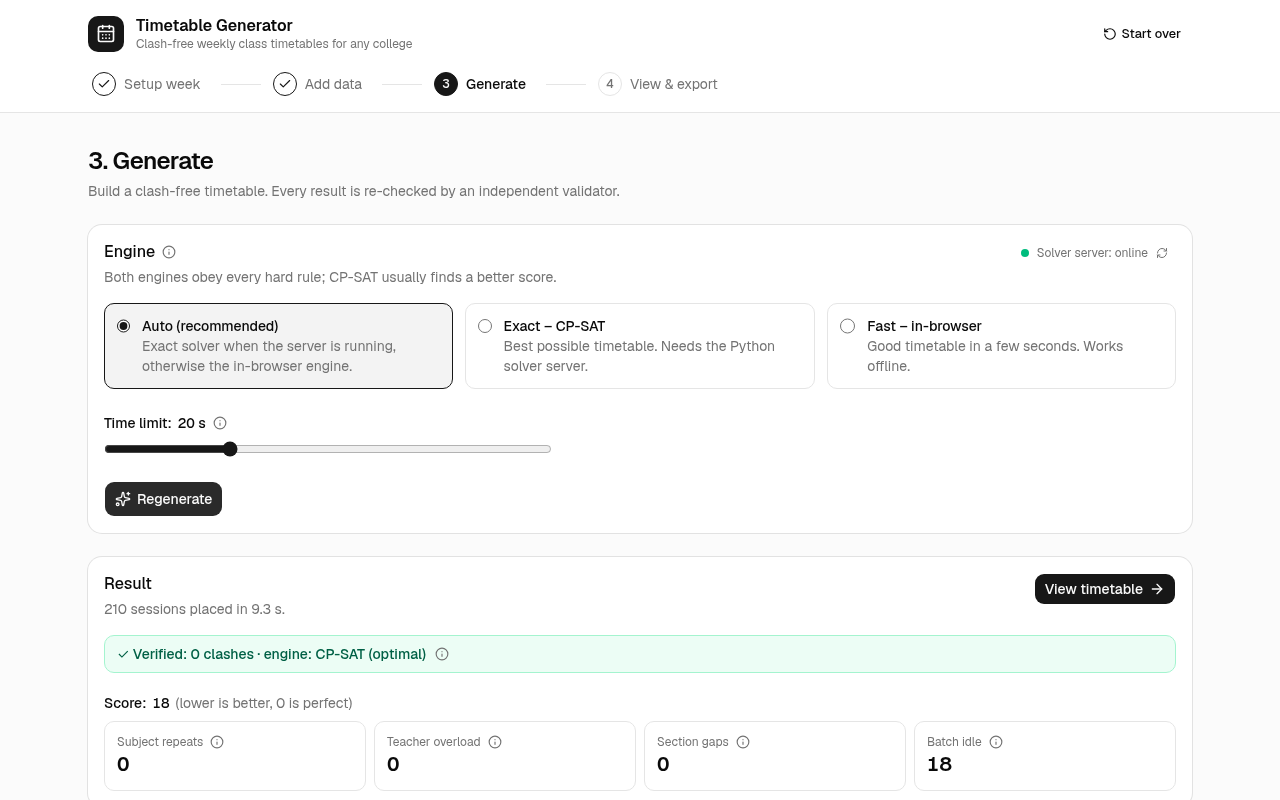
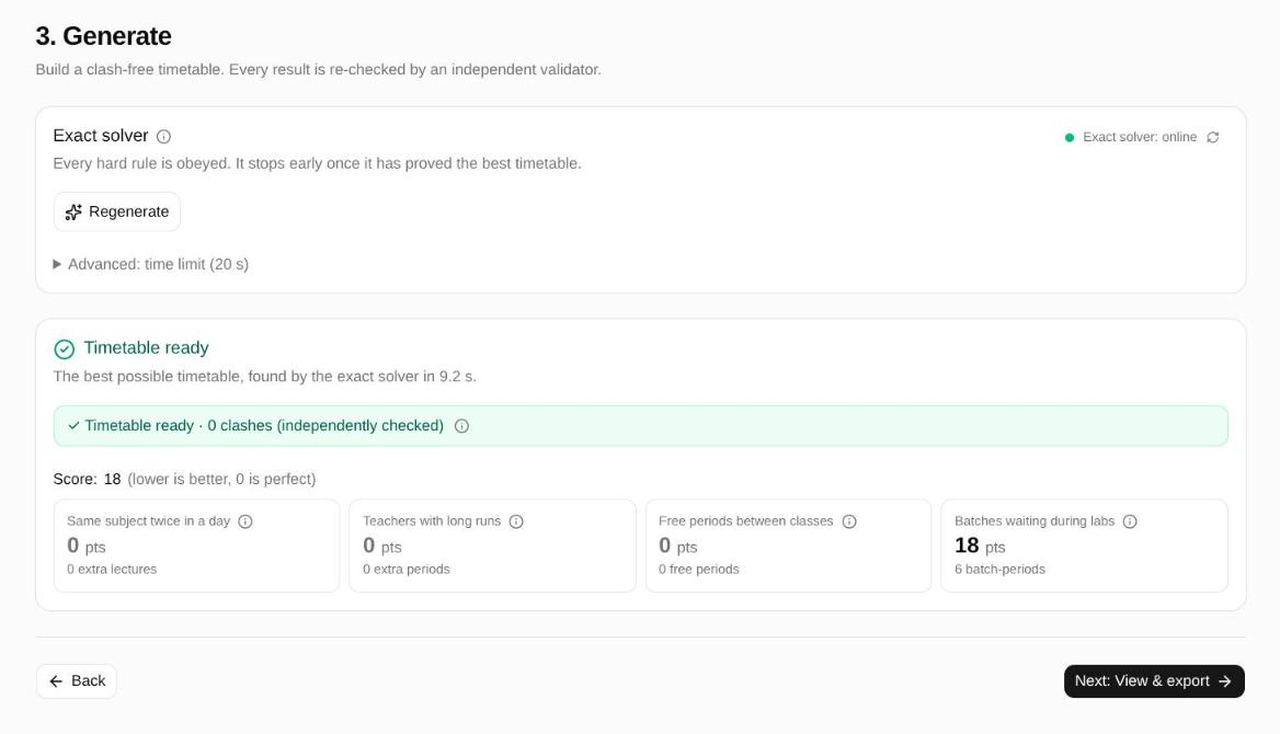
T18: README, ARCHITECTURE and step ③ screenshot for exact-first; ticket done

diff --git a/README.md b/README.md
@@ -18,10 +18,12 @@ sees it.
   the built-in sample college (3 departments, 9 sections, 25 teachers, 18 rooms, 54 courses).
 - **Real-college rules.** Department-owned and shared rooms, labs that run for 2–3 consecutive periods, sections
   split into lab batches that run different labs at the same time, a guaranteed lunch period for everyone.
-- **Two engines.** An exact optimiser (OR-Tools CP-SAT) in a small Python server, and a fast heuristic that
-  runs in the browser. *Auto* uses the server when it's up and falls back to the browser when it isn't.
-- **Verified results.** `✓ Verified: 0 clashes · engine: CP-SAT (optimal)`, re-checked in the browser
-  whichever engine ran. Sessions that can't be placed come with a reason.
+- **Exact solver first.** An exact optimiser (OR-Tools CP-SAT) in a small Python server finds the best
+  timetable or proves none exists. If it can't be built, step ③ says why (an over-booked teacher, a lab
+  with no room, a lock in the way…) with a fix link for each cause. A quick draft (a fast heuristic in the
+  browser) runs only when you ask for one: when the server is offline, or as a partial timetable.
+- **Verified results.** `✓ Timetable ready · 0 clashes (independently checked)`, re-checked in the browser
+  whichever engine ran. A partial timetable lists the classes it couldn't place, grouped by cause.
 - **Section, teacher and room views** of the same timetable, colour-coded by subject.
 - **Quality stats.** Score breakdown, teacher load per day, room utilisation.
 - **Lock and regenerate.** Lock the cells you want to keep, re-solve everything else.
@@ -33,7 +35,7 @@ Everything is saved in the browser (localStorage). There are no accounts and no 
 
 | Add data | Generate |
 |---|---|
-| ![Data step with the sample college loaded](docs/screenshots/data.png) | ![Generate step with a verified CP-SAT result](docs/screenshots/generate.png) |
+| ![Data step with the sample college loaded](docs/screenshots/data.png) | ![Generate step with a verified exact-solver result](docs/screenshots/generate.png) |
 | **Teacher view** | **Stats** |
 | ![A teacher's week](docs/screenshots/teacher.png) | ![Quality score, room utilisation and teacher load](docs/screenshots/stats.png) |
 
@@ -53,7 +55,7 @@ Tested with Node 24 and Python 3.12.
 # 1. Web app → http://localhost:5173
 cd web && npm install && npm run dev
 
-# 2. Solver server → http://localhost:8000 (optional: without it the in-browser engine is used)
+# 2. Solver server → http://localhost:8000 (without it, step ③ offers a quick draft in the browser)
 cd server && uv sync && uv run uvicorn main:app --port 8000
 ```
 
@@ -70,8 +72,8 @@ The web app looks for the server at `http://localhost:8000`; set `VITE_SOLVER_UR
  │ 1 Setup → 2 Data → 3 Generate → 4 View/export  │        │ FastAPI  POST /solve     │
  │                        │                       │  JSON  │   └ OR-Tools CP-SAT      │
  │                   solveClient ─────────────────┼───────►│     (exact, optimal)     │
- │                        │ server down / slow /   │        └──────────────────────────┘
- │                        │ infeasible             │
+ │                        │ quick draft, only when │        └──────────────────────────┘
+ │                        │ you click for one      │
  │                        ▼                        │
  │             heuristic engine (Web Worker)       │
  │                        │                        │
@@ -80,10 +82,12 @@ The web app looks for the server at `http://localhost:8000`; set `VITE_SOLVER_UR
 ```
 
 - **CP-SAT** models every hard rule as a constraint and minimises the soft-rule penalties. On the sample
-  college it places all 210 sessions and proves the result optimal in about 10 s.
+  college it places all 210 sessions and proves the result optimal in about 10 s. When no timetable exists
+  it says which sessions have no slot or which locks are to blame; the browser adds section, teacher and room
+  load maths and ranks the causes.
 - **The heuristic** places the most constrained sessions first, restarts with different random seeds, then
   improves the timetable by moving and swapping sessions. It never creates a clash. On the sample it reaches
-  the same score in about 5 s with no server.
+  the same score in about 5 s with no server. It runs only when you ask for a quick draft or a partial timetable.
 - **The validator and scorer** are plain TypeScript, separate from both engines. They are the source of truth
   for the badge and the score, so the two engines are judged by the same code.
 
@@ -132,19 +136,21 @@ drift apart.
 
 1. **Setup (5 s).** Step 1 shows the bell schedule: 8 periods, a break, three lunch candidates. *Next.*
 2. **Data (10 s).** *Load sample.* "3 departments, 9 sections, 54 courses; every section fits in the week."
-3. **Generate (20 s).** Server dot is green. *Generate timetable.* While it runs: "CP-SAT is proving the best
-   possible timetable." Point at `✓ Verified: 0 clashes · engine: CP-SAT (optimal)` and the score breakdown.
+3. **Generate (20 s).** Server dot is green. *Generate timetable.* While it runs: "the exact solver is proving
+   the best possible timetable." Point at *Timetable ready · best possible*, the
+   `✓ Timetable ready · 0 clashes (independently checked)` badge and the score breakdown.
 4. **Views (20 s).** *View timetable.* CSE A: labs span two periods, batches B1/B2 run labs side by side.
    Switch to **Teacher**, search "Anita": her whole week. Switch to **Room** and pick Seminar Hall 1:
    one shared hall used by all three departments.
 5. **Stats (10 s).** Scroll down: score explained rule by rule, shared room utilisation, teacher load bars.
 6. **Lock + regenerate (15 s).** Click a cell → *Lock here*; lock a second one. *Regenerate (keep 2 locked)*.
    The two 🔒 cells stay put, everything else moves, still 0 clashes. Then drag a class: green slots show the
-   score change, hover a red one for the reason, drop on green → moved, locked, still `✓ Verified: 0 clashes`.
+   score change, hover a red one for the reason, drop on green → moved, locked, still `✓ Timetable ready · 0 clashes`.
 7. **Print (10 s).** *Print all sections* → one A4 page per section, colours kept.
 
-Backup: stop the server and generate again. Auto falls back to the in-browser engine with a note saying why,
-and the badge still reads 0 clashes.
+Backup: stop the server. Within 5 s step ③ shows an amber "Exact solver is offline" banner and the button reads
+*Make a quick draft*; the draft still reads 0 clashes. To show *can't be built*, give one course 30 lectures
+in step ②: step ③ names the over-booked section and teacher with fix links.
 
 ## Project docs
 

diff --git a/ARCHITECTURE.md b/ARCHITECTURE.md
@@ -1,6 +1,6 @@
 # Architecture
 
-The app runs in the browser. An admin enters the college's week, rooms, teachers, sections and courses, then generates a weekly timetable. A Python server solves the timetable exactly with OR-Tools CP-SAT. If the server is down or too slow, a heuristic solver in the browser takes over. Either way, a validator in the browser re-checks every result for clashes before the admin sees it.
+The app runs in the browser. An admin enters the college's week, rooms, teachers, sections and courses, then generates a weekly timetable. A Python server solves the timetable exactly with OR-Tools CP-SAT, or proves that none exists and says why. A heuristic solver in the browser makes a quick draft only when the admin asks for one: when the server is offline, or after the exact solver failed. Either way, a validator in the browser re-checks every result for clashes before the admin sees it.
 
 ```mermaid
 flowchart LR
@@ -9,7 +9,7 @@ flowchart LR
   subgraph Browser["Browser: Vite + React + TypeScript"]
     UI["Guided flow<br/>1 Setup · 2 Data · 3 Generate · 4 View"]
     Store["Zustand store<br/>saved to localStorage"]
-    Client["solveClient<br/>chooses engine, falls back"]
+    Client["solveClient<br/>generate · makeDraft"]
     Worker["Heuristic solver<br/>Web Worker"]
     Domain["Domain logic<br/>sessions · eligibility · validator · scorer"]
   end
@@ -25,7 +25,7 @@ flowchart LR
   UI <--> Store
   UI -- "Generate" --> Client
   Client -- "SolveInput JSON" --> API --> CPSAT
-  Client -- "server down, timeout<br/>or infeasible" --> Worker
+  Client -- "quick draft,<br/>only on request" --> Worker
   Worker --> Domain
   Client -- "every result" --> Domain
   Domain -- "verified result + score" --> UI
@@ -36,11 +36,12 @@ flowchart LR
 ## How a timetable is generated
 
 1. The store builds a `SolveInput` from the admin's data and any locked cells.
-2. `solveClient` checks `GET /health`. If the server answers, it posts the input to `/solve` and CP-SAT runs for up to the time limit set in step 3 (20 seconds by default).
-3. If the server is unreachable or times out, the heuristic solver runs in a Web Worker so the page stays responsive.
-4. If CP-SAT reports the input is infeasible, the heuristic runs anyway. It returns a partial timetable and a reason for each class it could not place, e.g. "no 2 consecutive periods where teacher R. Gupta and Physics Lab are both free".
-5. The validator checks the result against the hard rules H1 to H8, and the scorer computes penalties S1 to S4. Both run in the browser, so every engine is judged by the same code.
-6. The UI shows the timetable with a badge such as `✓ Verified: 0 clashes · engine: CP-SAT (optimal)`.
+2. Step 3 polls `GET /health` every 5 s. While the server is up, `generate()` posts the input to `/solve` and CP-SAT runs for up to the time limit set in step 3 (20 seconds by default, 120 at most).
+3. If CP-SAT proves the input infeasible, the server sends a `diagnosis` (sessions with no slot, invalid locks, or locks that make it impossible). `causes.ts` combines it with the section, teacher and room load checks from step 2 into ranked causes with fix links. Nothing runs in the browser.
+4. If CP-SAT runs out of time, the server fails or can't be reached, `generate()` returns a `failure` of that kind and the stored timetable stays.
+5. `makeDraft()` runs the heuristic in a Web Worker only when the admin clicks *Make a quick draft* (server offline), *Make a partial timetable* or *Make a quick draft instead*. It returns a partial timetable when needed, with a reason and a cause for each class it could not place, e.g. "no 2 consecutive periods where teacher R. Gupta and Physics Lab are both free".
+6. The validator checks the result against the hard rules H1 to H8, and the scorer computes penalties S1 to S4. Both run in the browser, so every engine is judged by the same code.
+7. `generateView()` picks what step 3 shows: ready, can't be built, couldn't finish or partial, with a badge such as `✓ Timetable ready · 0 clashes (independently checked)`.
 
 ## Shared contract
 
@@ -83,11 +84,13 @@ Both solvers read the same `SolveInput` JSON and return the same `SolveResult` J
 
 | Feature | What it does | Ticket |
 |---|---|---|
-| CP-SAT solver | Finds the best timetable under the hard rules, or proves none exists. | T04 |
-| Heuristic solver | Places the hardest sessions first, retries with random restarts, then improves the result by moving and swapping sessions. | T03 |
-| Automatic fallback | Switches to the heuristic when the server is down, slow or reports infeasible. | T07 |
-| Unplaced reasons | Lists each session that could not be placed, with the resource that blocked it. | T03, T07 |
-| Validator badge | Re-checks every result for clashes and shows the engine that produced it. | T02, T07 |
+| Exact solver (CP-SAT) | Finds the best timetable under the hard rules, or proves none exists and names the cause. The only engine Generate runs. | T04, T16, T18 |
+| Quick draft (heuristic) | Places the hardest sessions first, retries with random restarts, then improves the result by moving and swapping sessions. Runs only from a *quick draft* / *partial* button. | T03, T18 |
+| Can't be built | Ranked causes with fix links into step 2 or 4, and an opt-in partial timetable. | T17, T18 |
+| Couldn't finish | Timeout, server error or unreachable: the timetable stays; try again with more time or make a quick draft. | T18 |
+| Offline banner | Polls the server every 5 s; while it is down the main button makes a quick draft. | T18 |
+| Unplaced reasons | Lists each session that could not be placed, grouped by the cause that blocked it. | T03, T07, T18 |
+| Validator badge | Re-checks every result for clashes: ready, or partial with the count not placed. | T02, T07, T18 |
 
 ### Step 4: View and export
 

diff --git a/tickets/T18-exact-first-ui.md b/tickets/T18-exact-first-ui.md
@@ -1,5 +1,5 @@
 # T18 — Exact-first Generate UI
-**Status:** IN PROGRESS
+**Status:** DONE
 **Lane:** main · **Prereqs:** T16, T17 · **Branch:** t18-exact-first
 
 ## Goal
@@ -62,9 +62,10 @@ do, and gets the quick draft (heuristic) only by choosing it. Part 3 of the exac
   step ④ banner → drag one in → print warning, a 5 s limit timeout (→ try again with 10 s).
 
 ## Done when
-- [ ] Every state above reachable and clicked through
-- [ ] No path runs the heuristic without the user clicking a button that says "quick draft" / "partial"
-- [ ] Committed in small steps, e.g. `T18: exact-only generate()`, `T18: step ③ impossible state`, …
+- [x] Every state above reachable and clicked through (except dragging a class in from a partial timetable: the
+      over-booked test data had no free slot; that drag is T13 code, unchanged)
+- [x] No path runs the heuristic without the user clicking a button that says "quick draft" / "partial"
+- [x] Committed in small steps, e.g. `T18: exact-only generate()`, `T18: step ③ impossible state`, …
 
 ## Cuts / deferred
 - A complete quick draft gets no special label and no *Improve with exact solver* button (deferred in the
